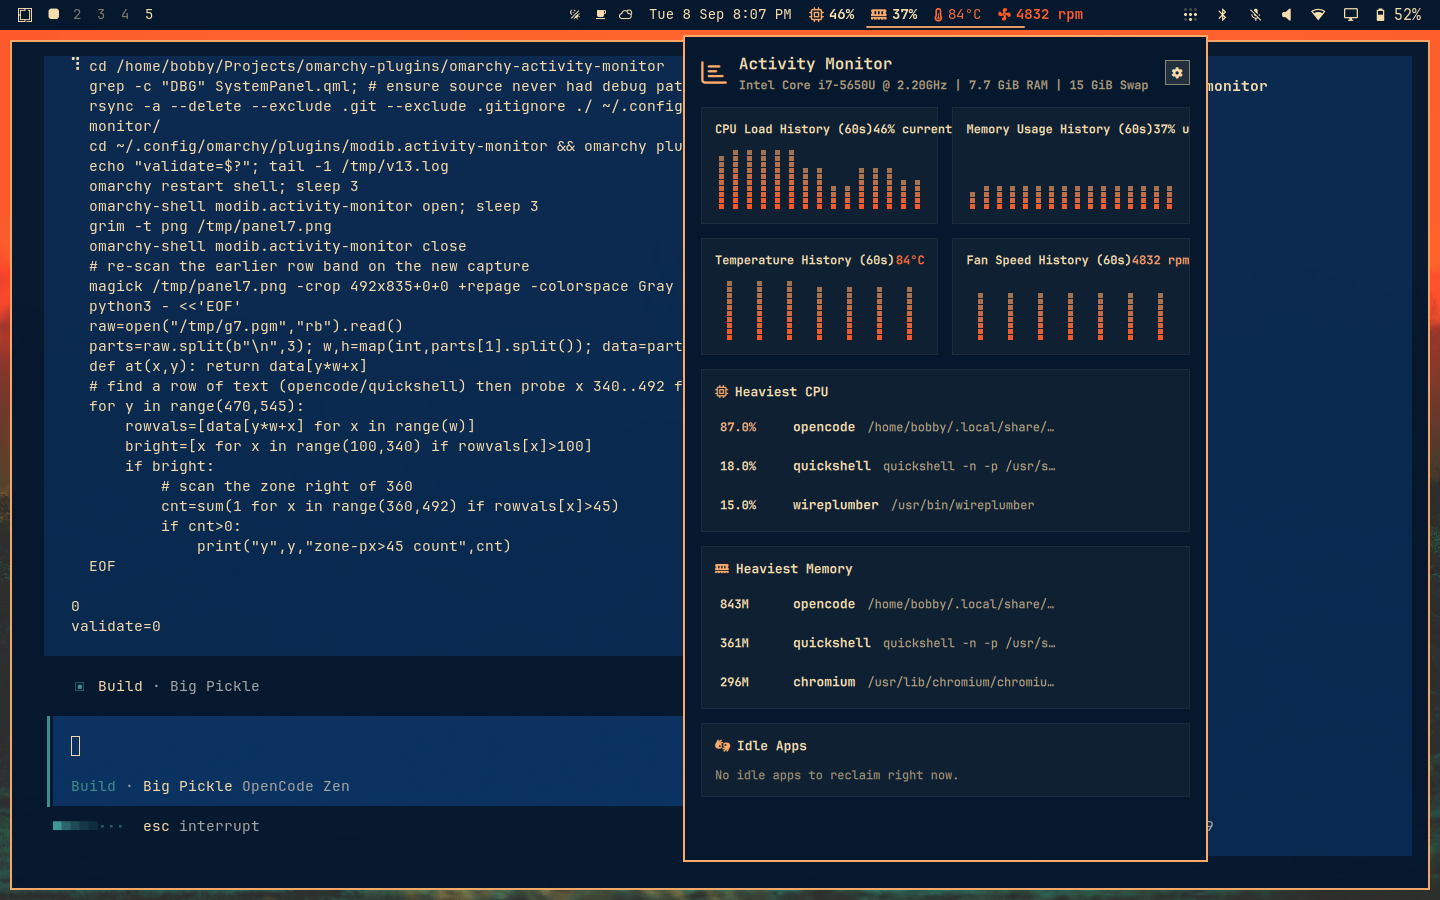
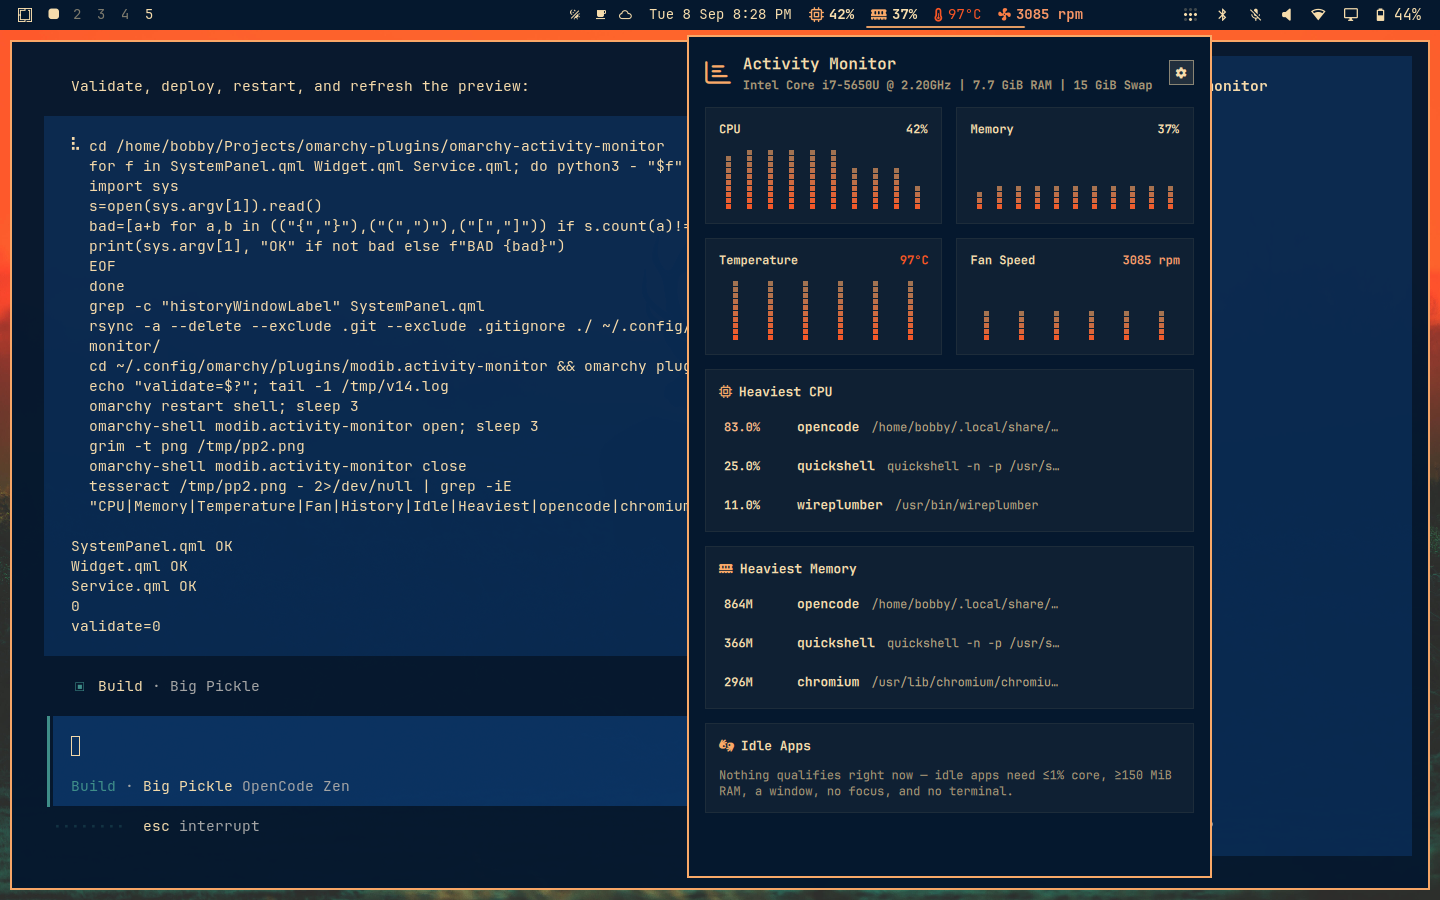
Lean graph labels and documented idle-apps criteria
- Graph titles drop the redundant "(68s) History" and "% current/used"
  tails: CPU / Memory / Temperature / Fan Speed with plain current values
- Idle Apps empty state states the full criteria (<=1% core, >=150 MiB,
  window, unfocused, not a terminal/system tool) instead of a vague message
- README spells out the idle criteria with exact thresholds

diff --git a/SystemPanel.qml b/SystemPanel.qml
@@ -30,13 +30,6 @@ KeyboardPanel {
   property string tempFormat: "degree-unit"
   property bool settingsOpen: false
 
-  // How much real time the rolling history graphs span: historyCap samples at
-  // the service's sampling interval.
-  readonly property string historyWindowLabel: {
-    var secs = hw.historySeconds
-    return secs >= 120 ? Math.floor(secs / 60) + " min" : secs + "s"
-  }
-
   // Process list state. Three fixed lists (Heaviest CPU, Heaviest Memory,
   // Idle Apps) each capped at a handful of rows; pending* is the one-shot
   // confirm state for a kill offered on any row.
@@ -543,18 +536,18 @@ Text {
           spacing: Style.space(12)
 
           HistoryGraph {
-            title: "CPU Load History (" + root.historyWindowLabel + ")"
+            title: "CPU"
             userWidth: (parent.width - parent.spacing) / 2
             values: hw.cpuHistory
-            currentText: hw.cpuPercent >= 0 ? (Math.round(hw.cpuPercent) + "% current") : "–"
+            currentText: hw.cpuPercent >= 0 ? (Math.round(hw.cpuPercent) + "%") : "–"
             currentColor: root.warm(root.baseColor, Model.severity(hw.cpuPercent, root.warnPercent, root.criticalPercent))
           }
 
           HistoryGraph {
-            title: "Memory Usage History (" + root.historyWindowLabel + ")"
+            title: "Memory"
             userWidth: (parent.width - parent.spacing) / 2
             values: hw.memHistory
-            currentText: hw.memPercent >= 0 ? (Math.round(hw.memPercent) + "% used") : "–"
+            currentText: hw.memPercent >= 0 ? (Math.round(hw.memPercent) + "%") : "–"
             currentColor: root.warm(root.baseColor, Model.severity(hw.memPercent, root.warnPercent, root.criticalPercent))
           }
         }
@@ -564,7 +557,7 @@ Text {
           spacing: Style.space(12)
 
           HistoryGraph {
-            title: "Temperature History (" + root.historyWindowLabel + ")"
+            title: "Temperature"
             userWidth: (parent.width - parent.spacing) / 2
             values: hw.tempHistory
             placeholder: hw.hasTempSensor ? "collecting samples…" : "no temperature sensor"
@@ -573,7 +566,7 @@ Text {
           }
 
           HistoryGraph {
-            title: "Fan Speed History (" + root.historyWindowLabel + ")"
+            title: "Fan Speed"
             userWidth: (parent.width - parent.spacing) / 2
             values: hw.fanHistory
             placeholder: hw.hasFanSensor ? "collecting samples…" : "no fan sensor"
@@ -738,7 +731,7 @@ Text {
           glyph: "\uF2A3"
           listModel: root.processIdleList
           scope: "idle"
-          emptyText: "No idle apps to reclaim right now."
+          emptyText: "Nothing qualifies right now — idle apps need ≤1% core, ≥150 MiB RAM, a window, no focus, and no terminal."
           showMeta: true
         }
 

diff --git a/README.md b/README.md
@@ -134,8 +134,18 @@ panel renders a dash rather than a zero that looks like real data.
 
 The reclaim list only ever offers user-owned GUI applications: a process counts
 when it owns a window on the compositor. To appear in the Idle Apps table it must
-also be below the idle CPU threshold, hold at least the idle memory threshold,
-not be the focused window, and not be a system component.
+meet *all* of these at the moment of the survey:
+
+- owned by the desktop user (uid matches yours)
+- has a display connection (`DISPLAY` or `WAYLAND_DISPLAY` in its environment)
+- using at most **1%** of a core over the sample window (`HW_IDLE_CPU`)
+- holding at least **150 MiB** resident (`HW_IDLE_MEM_MIB`)
+- **not** the currently focused window
+- **not** on the protect list below
+
+So a long-open, unfocused browser qualifies the moment it drops under the CPU
+ceiling — a browser that just loaded a tab (4-5% core) does not. There is no
+timeout: "idle" is a point-in-time snapshot, not something that accrues.
 
 `proc-probe` keeps an auditable protect list of things an optimizer must never
 offer to take down — the compositor and shell themselves, the audio and
